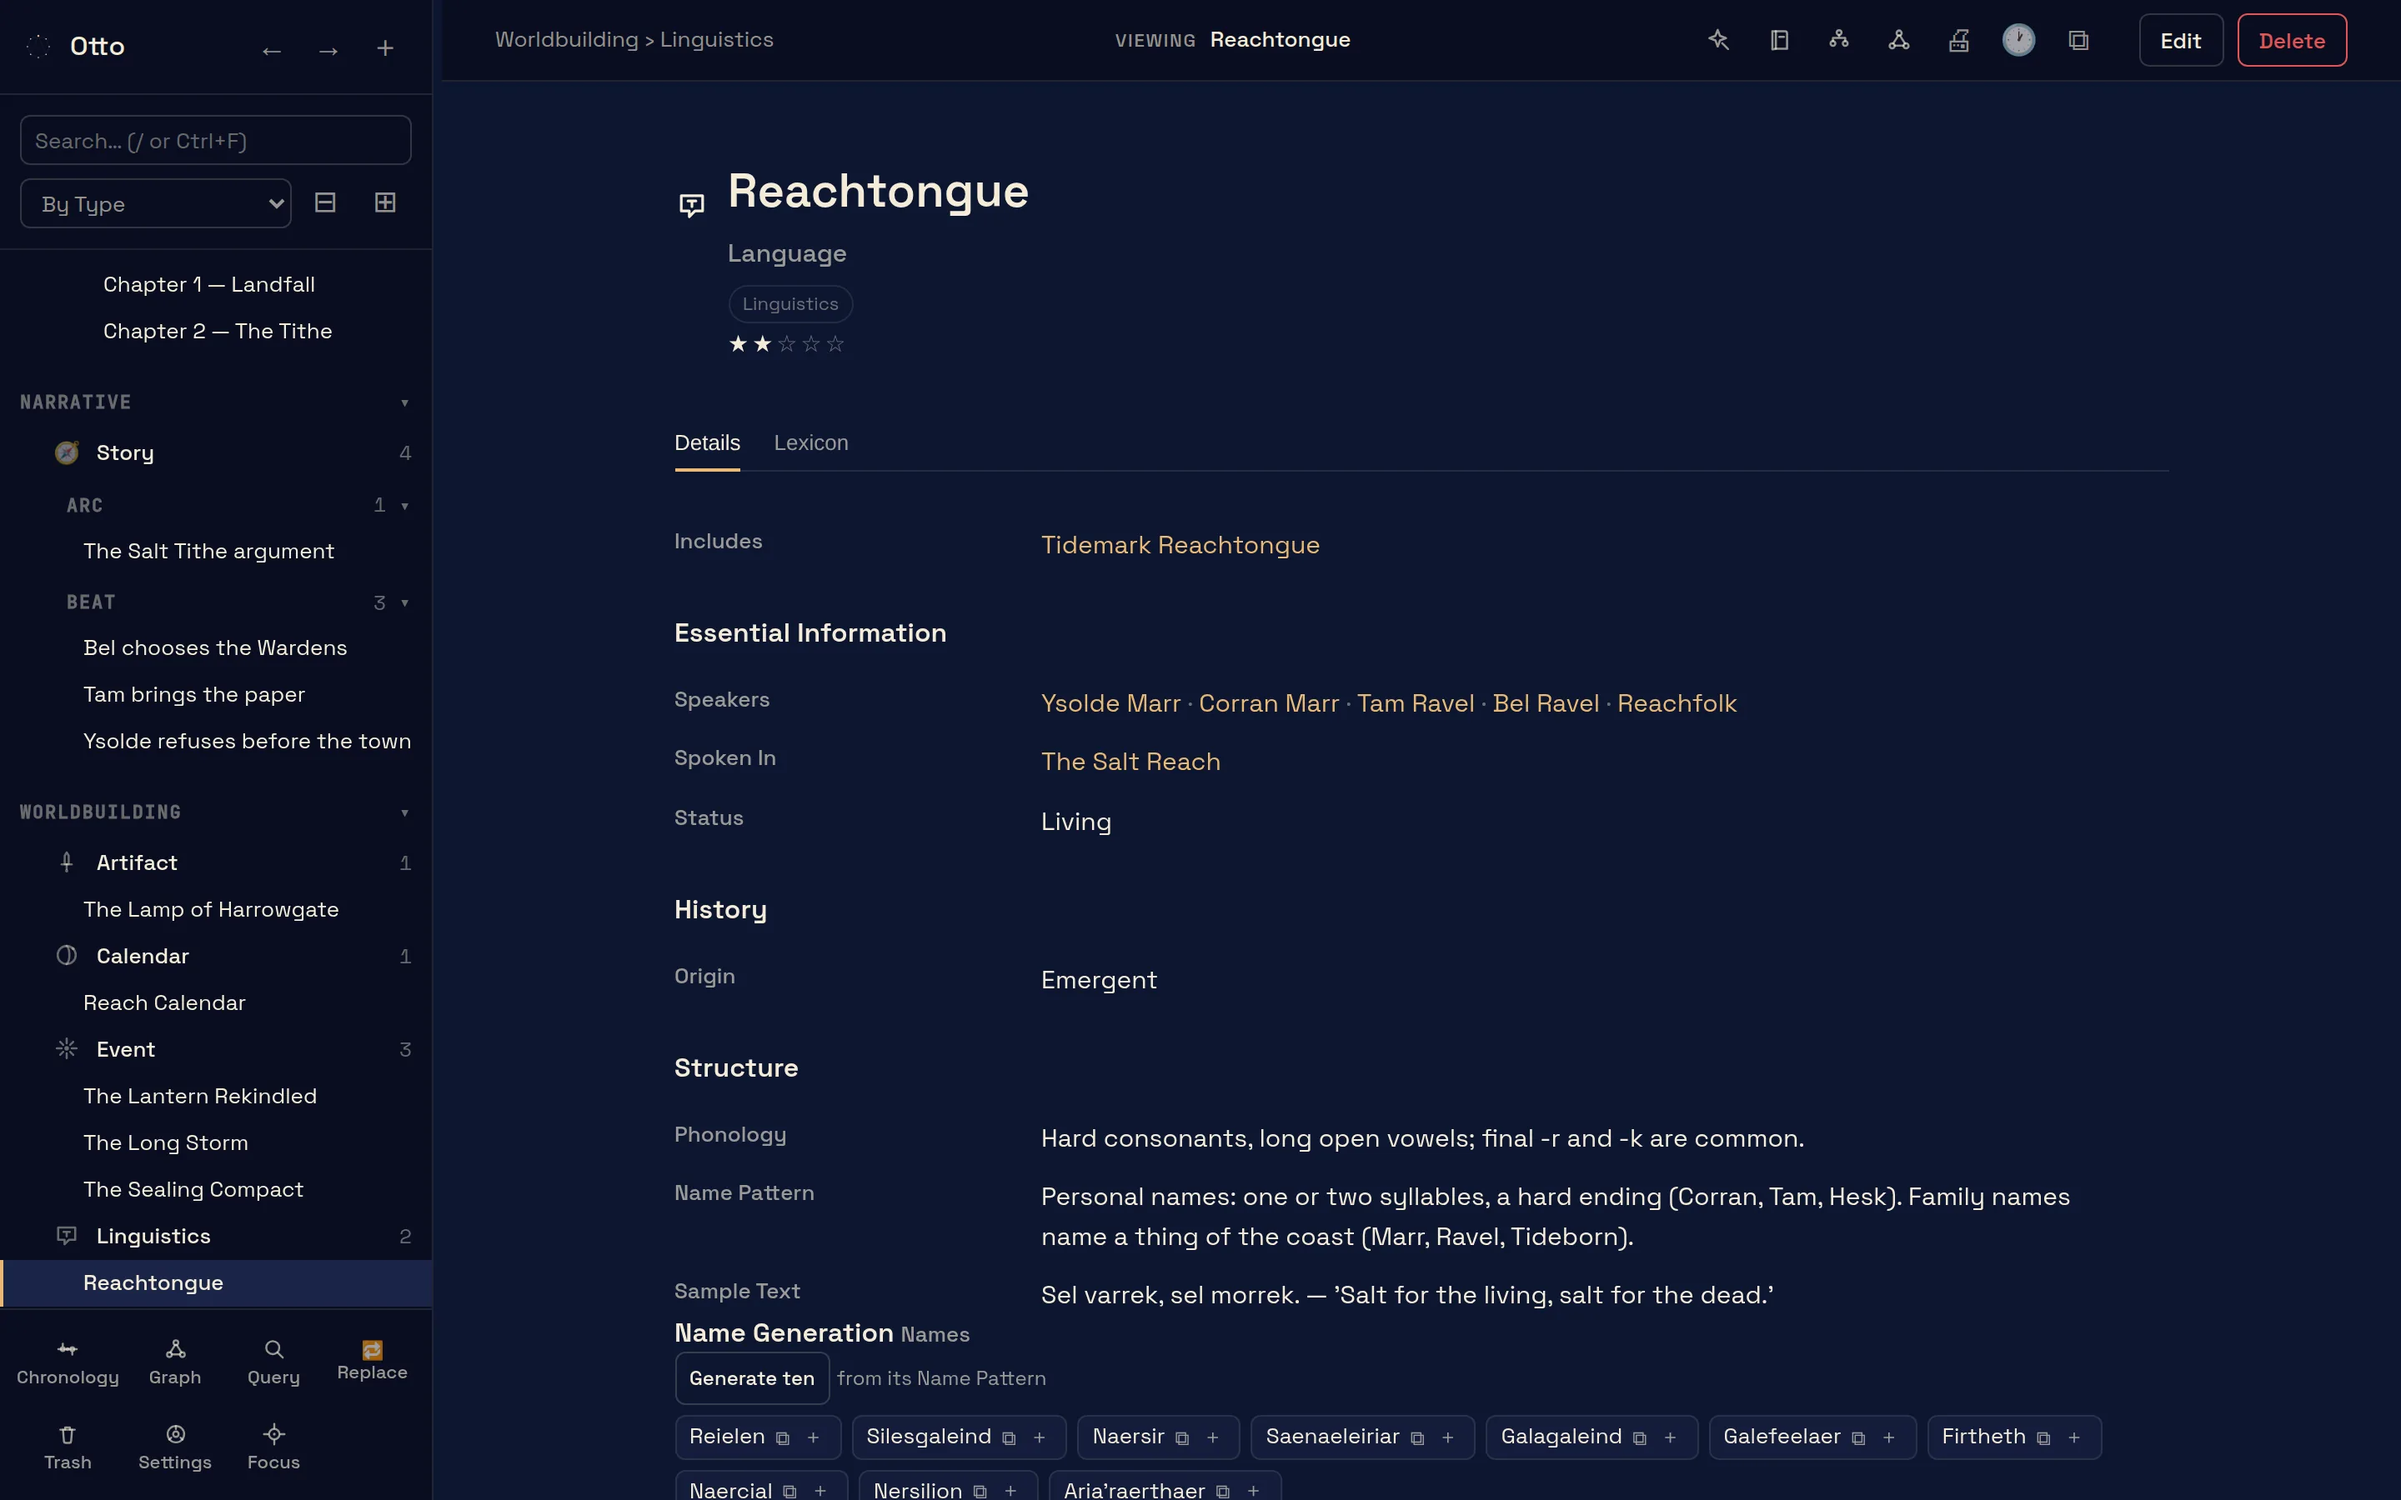
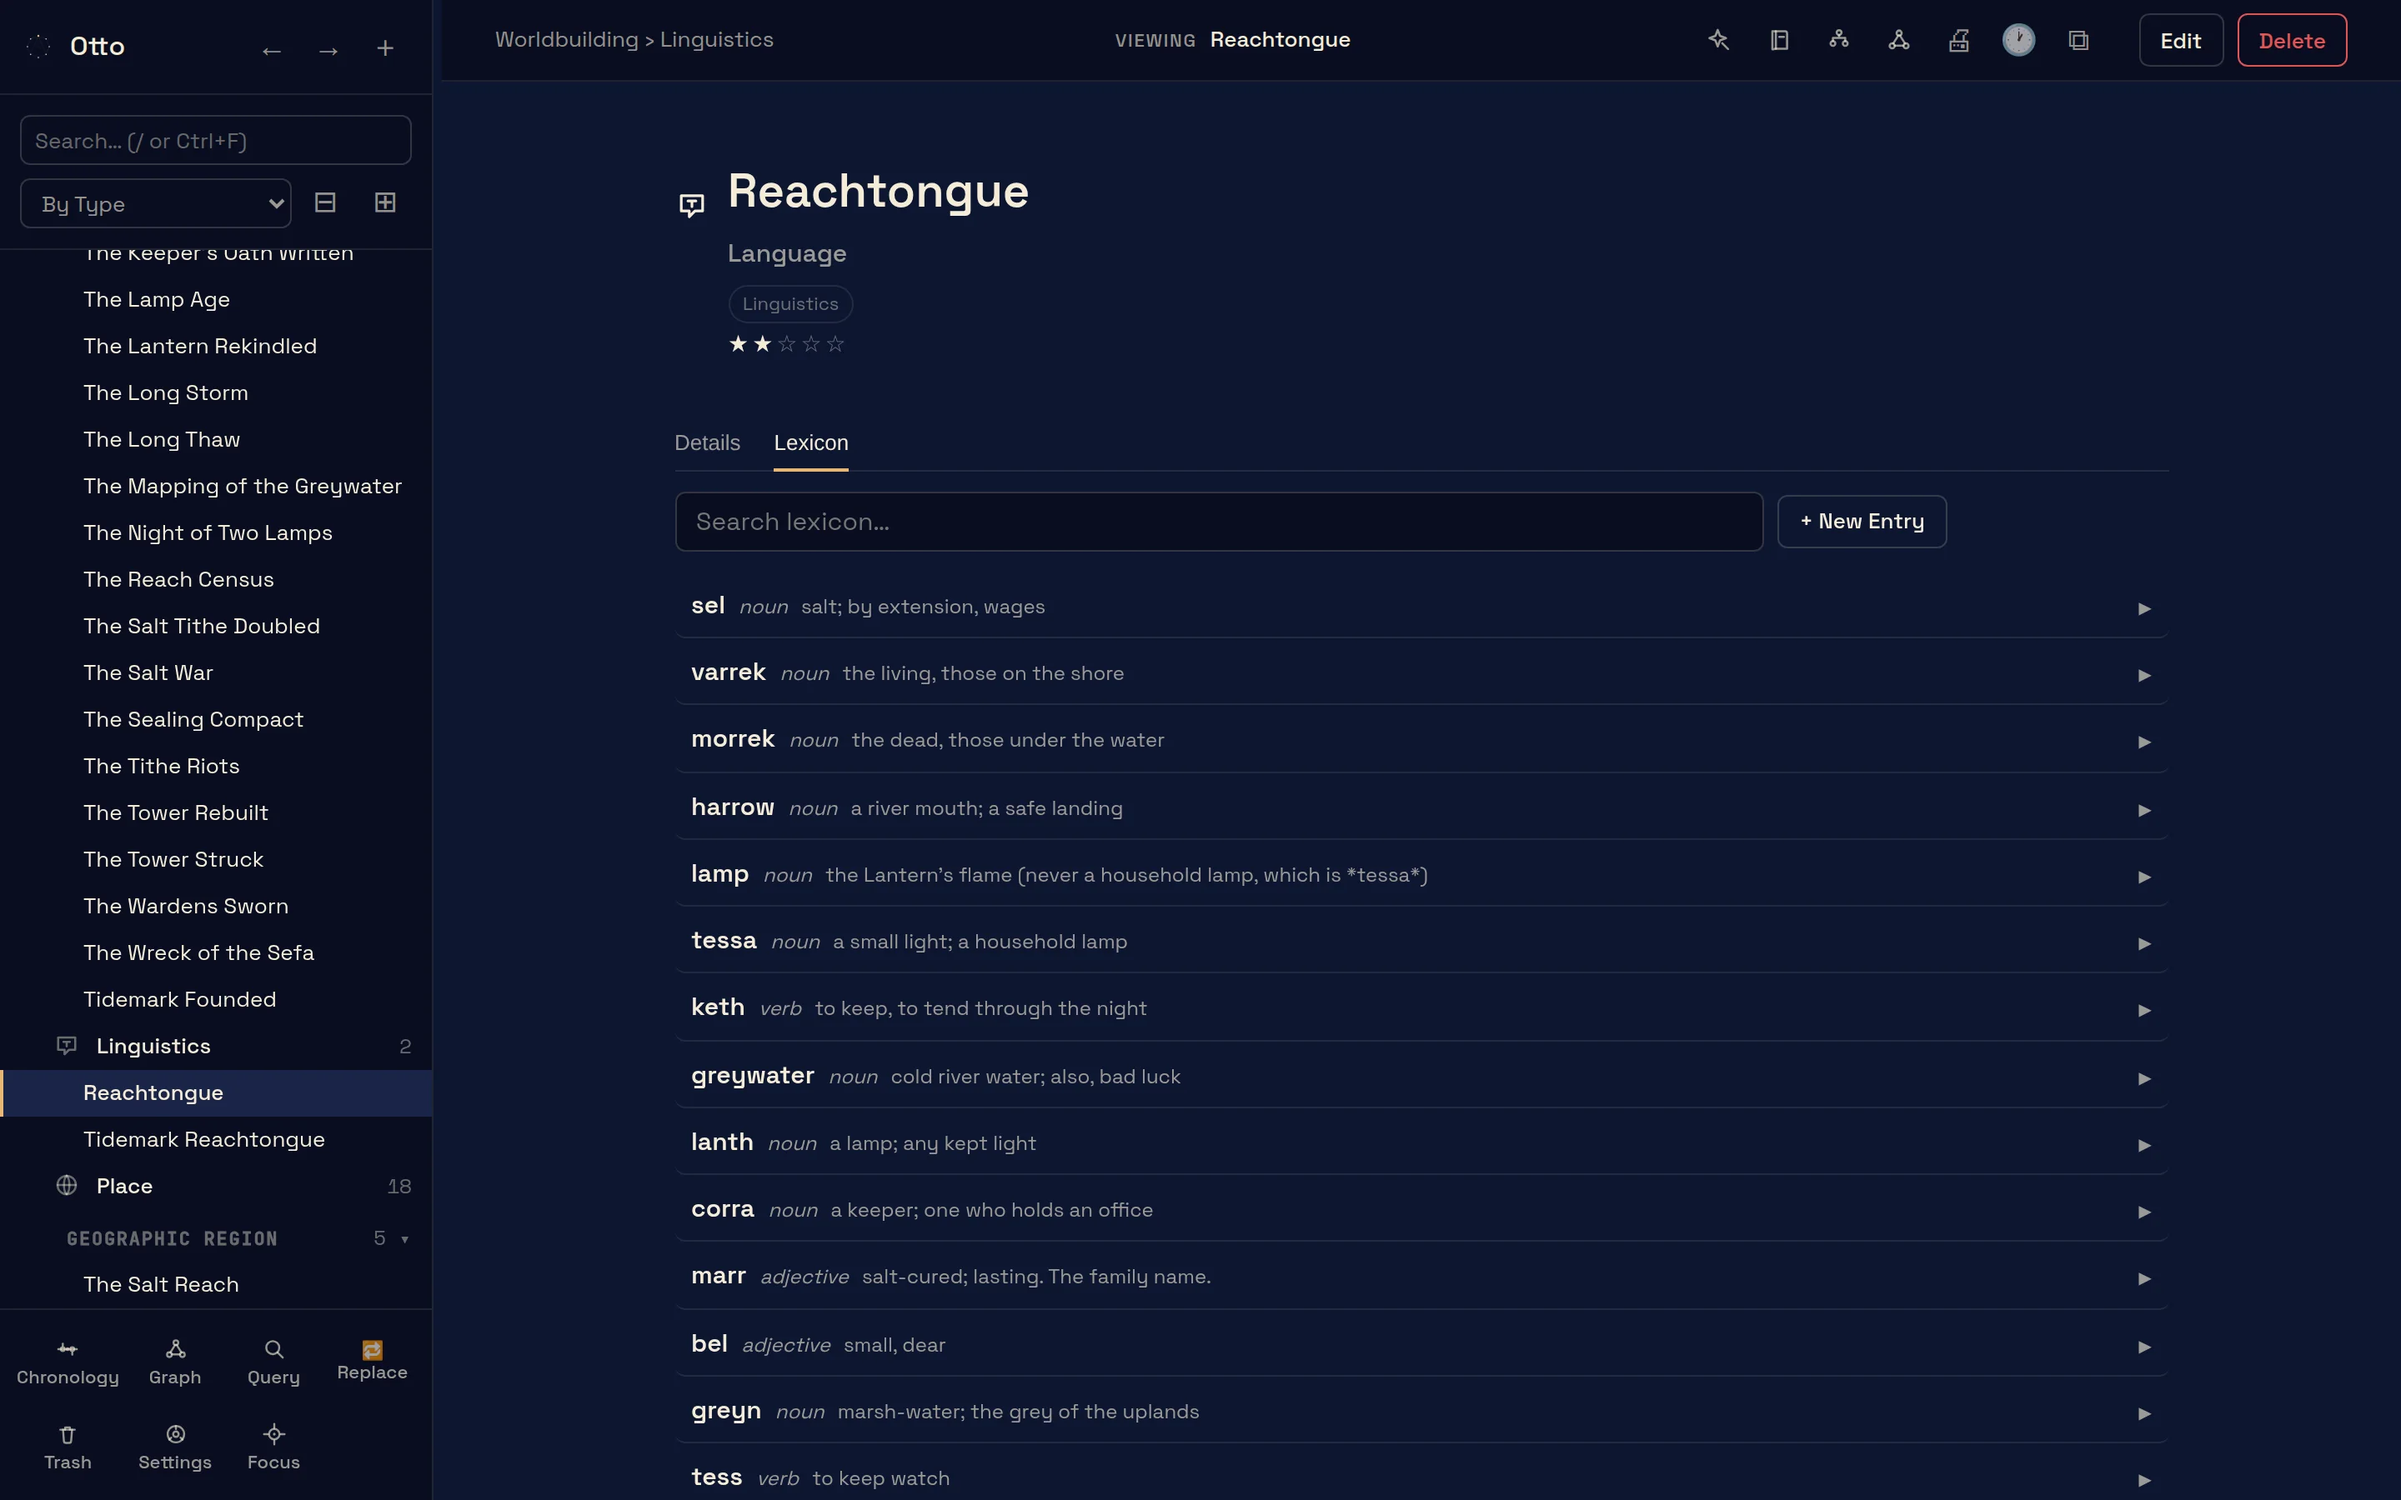
Fuller pictures: the lexicon, the query builder, the map's regions in colour
Reachtongue gains twenty-five words and its dialect two, and the
picture shows the Lexicon tab. The query picture asks for every
character alive in 1190 and gets eighteen. The map is reshot with
Otto's stronger region fill, each region in its own hue.

Claude-Session: https://claude.ai/code/session_01ApmZdGg4DJmcZWk7FrD98P

diff --git a/index.html b/index.html
@@ -157,7 +157,7 @@ document.addEventListener('DOMContentLoaded',function(){mark();document.querySel
         </div>
         <figcaption class="below">
           <span class="label">Fig. 7</span>
-          <span class="caption">A map from the terrain generator: nine places pinned, five regions shaded (a wilderness, a guild’s territory, the Wardens’ shore), three roads drawn between them. Every pin, region and road is an entry, and a scanned pencil map works the same way.</span>
+          <span class="caption">A map from the terrain generator: nine places pinned, five regions shaded in their own colours (a wilderness, a guild’s territory, the Wardens’ shore), three roads drawn between them. Every pin, region and road is an entry, and a scanned pencil map works the same way.</span>
         </figcaption>
       </figure>
 
@@ -183,11 +183,11 @@ document.addEventListener('DOMContentLoaded',function(){mark();document.querySel
       </figure>
       <figure>
         <div class="frame">
-          <img src="assets/shots/lexicon.webp" alt="A language entry with its lexicon and a row of generated names">
+          <img src="assets/shots/lexicon.webp" alt="A language’s lexicon tab: words with their parts of speech and meanings">
         </div>
         <figcaption class="below">
           <span class="label">Fig. 10</span>
-          <span class="caption">A language with its lexicon, and a name generator that follows the language’s own sounds and patterns.</span>
+          <span class="caption">A language’s lexicon: thirty-odd words with their parts of speech, pronunciations and meanings, searchable, and a dialect that inherits the lot. A name generator follows the language’s own sounds.</span>
         </figcaption>
       </figure>
       </div>
@@ -195,11 +195,11 @@ document.addEventListener('DOMContentLoaded',function(){mark();document.querySel
       <div class="pair">
       <figure>
         <div class="frame">
-          <img src="assets/shots/query.webp" alt="The query builder listing every character in the sample world">
+          <img src="assets/shots/query.webp" alt="The query builder listing the eighteen characters alive in the year 1190">
         </div>
         <figcaption class="below">
           <span class="label">Fig. 11</span>
-          <span class="caption">The query builder. Every character, or any slice of the world you can describe, with bulk edit and CSV export on the results.</span>
+          <span class="caption">The query builder: every character who was alive in the year 1190, eighteen of them, worked out from their dates. Any slice of the world you can describe, with bulk edit, CSV export and a timeline on the results.</span>
         </figcaption>
       </figure>
       <figure>
